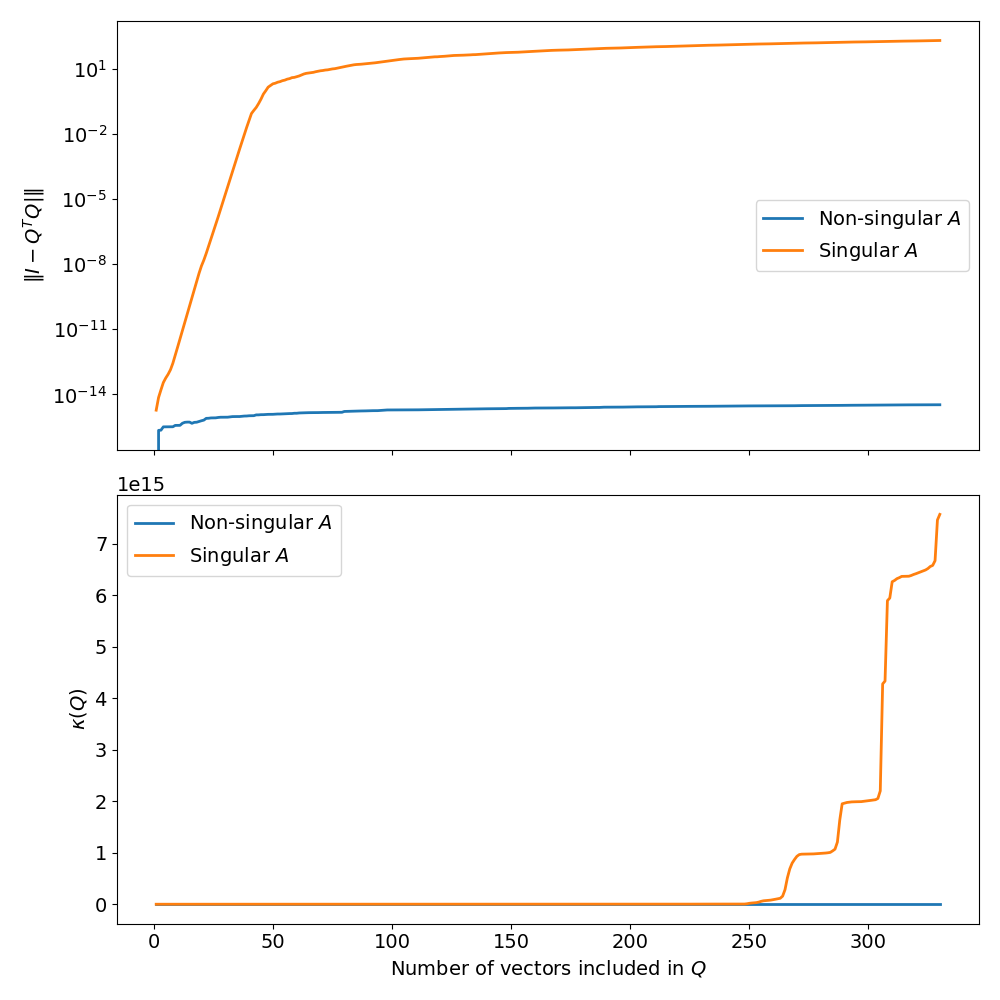
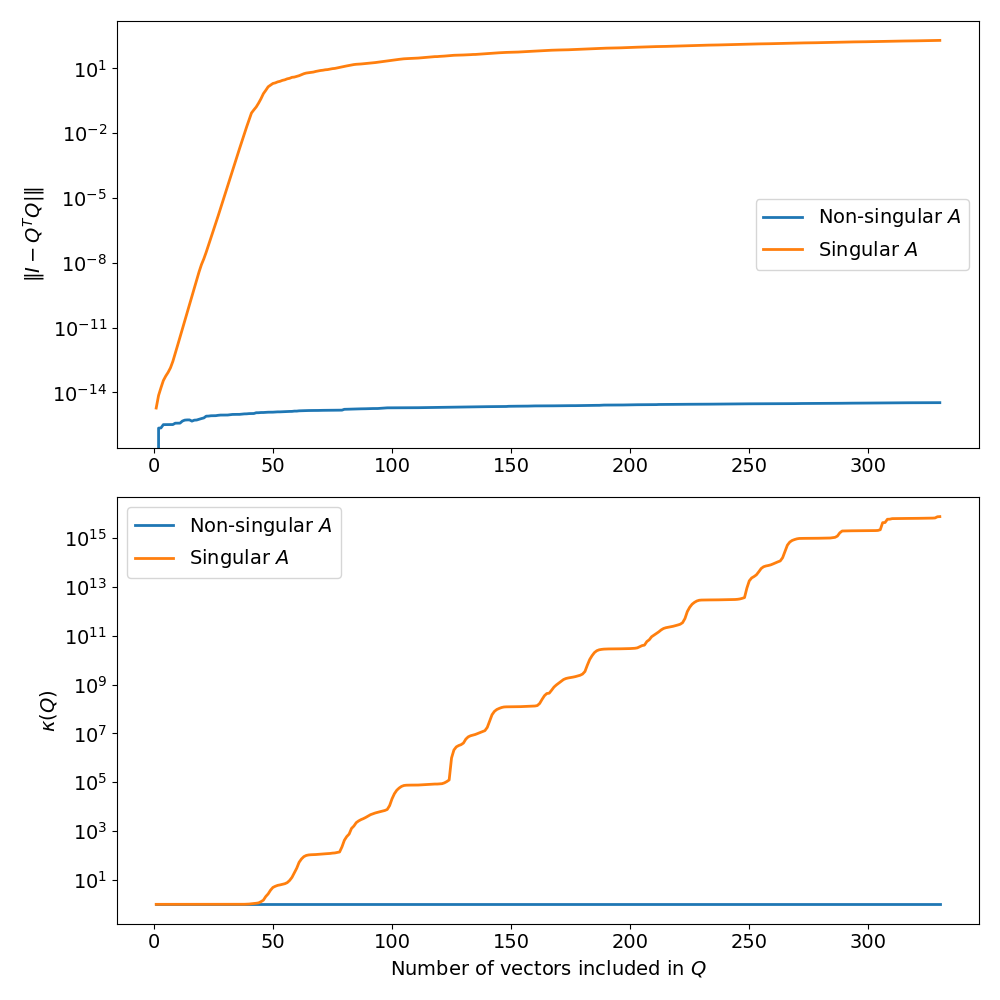
Removed Q_builing from TSQR time.

diff --git a/code/plot.py b/code/plot.py
@@ -88,7 +88,7 @@ def CGS_plot(data):
     data : dict
         imported data
     '''
-    fig, ax = plt.subplots(2, 1, figsize=(10, 10), sharex=True)
+    fig, ax = plt.subplots(2, 1, figsize=(10, 10))
     labels = [r'Non-singular $A$', r'Singular $A$']
     for i, mat_lab in enumerate(['mat', 'sing_mat']):
         norm_errors = data[f'CGS_errs_{mat_lab}']
@@ -100,10 +100,11 @@ def CGS_plot(data):
     #ax[0].set_xlabel('Number of included vectors in the basis')
     ax[0].set_ylabel(r'$\|I-Q^TQ|\|$')
     ax[0].set_yscale('log')
+    #ax[0].set_xscale('log')
     ax[0].legend()
     ax[1].set_xlabel(r'Number of vectors included in $Q$')
     ax[1].set_ylabel(r'$\kappa(Q)$')
-    #ax[1].set_yscale('log')
+    ax[1].set_yscale('log')
     ax[1].legend()
 
     plt.savefig(f'{FIG_PATH}CGS_metric_evolution.png')
@@ -121,12 +122,18 @@ def runtime_vs_nprocs(data, mat_lab='mat'):
     '''
     fig, ax = plt.subplots()
     algos = ['CQR', 'CGS', 'TSQR']
+    baseline = 0.0
     for algo in algos:
         time_df = data[f't_df_{algo}']
         std_on_mean = time_df[f'{algo}_std_t_{mat_lab}'] / np.sqrt(time_df[f'{algo}_n_rep_{mat_lab}'])
-        ax.errorbar(time_df['n_procs'], time_df[f'{algo}_avg_t_{mat_lab}'], yerr=std_on_mean, fmt='o', capsize=5, label=algo)
+        if algo == 'CQR':
+            baseline = time_df[f'{algo}_avg_t_{mat_lab}'][1]
+            baseline = 1.0
+        ax.errorbar(time_df['n_procs'], time_df[f'{algo}_avg_t_{mat_lab}']/baseline, yerr=std_on_mean/baseline, fmt='o', capsize=5, label=algo)
     ax.set_xlabel('Number of processors')
-    ax.set_ylabel('Average runtime')
+    ax.set_ylabel('Performance [s]')
+    ax.set_yscale('log')
+    ax.set_xscale('log')
     ax.legend()
     plt.savefig(f'{FIG_PATH}runtime_vs_nprocs_{mat_lab}.png')
 

diff --git a/code/computation.py b/code/computation.py
@@ -195,8 +195,8 @@ def TSQR(A_l):
                 R_l_kp1 = R_l_k
                 Ys.append(Y_l_k)
 
-        Q = build_Q( Ys )
         runtimes[i] = time.perf_counter() - start
+        Q = build_Q( Ys ) # just moved this out of timing
 
     tot_runtimes = None
     if RANK == 0:
